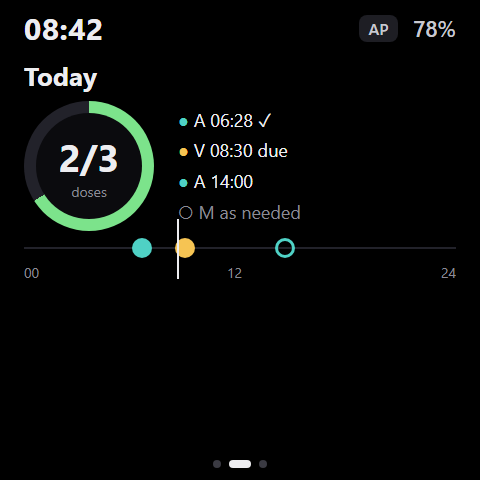
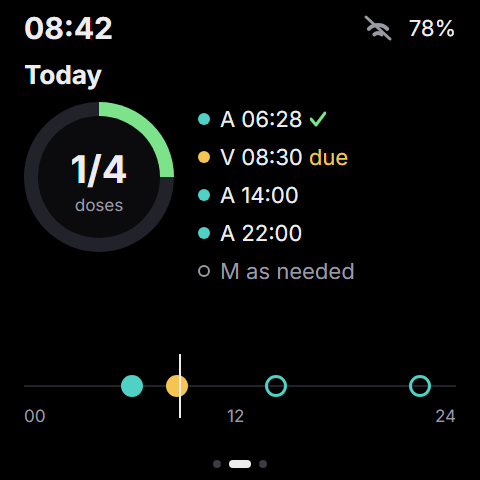
Redraw the device mockups from the current firmware layout
Sizes, positions, wording and colours follow components/hy_ui. The top bar shows the crossed Wi-Fi mark the firmware draws, aligned with the time and the percent, plus the charging bolt. split_screens.py takes an optional Inter font folder.

giovi321

diff --git a/design/mockups/screens.html b/design/mockups/screens.html
@@ -1,47 +1,56 @@
 <style>
+  /* Device UI mockups. Sizes and positions follow the firmware (components/hy_ui/src): absolute boxes use the screen
+     pixel of the 480 x 480 panel, and page content sits 56 px down, below the top bar. Text is Inter at the
+     firmware's type scale and line heights. */
   .wrap { display:flex; flex-wrap:wrap; gap:22px; }
   .item { width:310px; }
   .item h3 { margin:10px 0 4px; font-size:15px; }
   .item p { margin:0; font-size:13px; line-height:1.4; color:#888; }
-  .dev { width:480px; height:480px; background:#000; border-radius:28px; position:relative; overflow:hidden;
-         font-family:-apple-system,"Segoe UI",Roboto,sans-serif; color:#EDEDF0; transform:scale(.645); transform-origin:top left;
+  .dev { width:480px; height:480px; background:#000; position:relative; overflow:hidden;
+         font-family:Inter,-apple-system,"Segoe UI",Roboto,sans-serif; color:#EDEDF0; transform:scale(.645); transform-origin:top left;
          margin-bottom:-170px; margin-right:-170px; outline:5px solid #26262C; }
-  /* larger top bar */
-  .sb { height:56px; display:flex; align-items:center; justify-content:space-between; padding:0 24px; }
-  .sb .t { font-size:30px; font-weight:700; letter-spacing:.5px; }
-  .sb .r { display:flex; gap:16px; align-items:center; font-size:22px; font-weight:600; color:#C8C8D0; }
-  .wifi { width:30px; height:22px; position:relative; }
-  .wifi i { position:absolute; left:50%; bottom:0; border:4px solid #C8C8D0; border-color:#C8C8D0 transparent transparent transparent; border-radius:50%; transform:translateX(-50%); }
-  .bat { width:42px; height:22px; border:3px solid #C8C8D0; border-radius:6px; position:relative; }
-  .bat:after { content:""; position:absolute; right:-8px; top:5px; width:4px; height:7px; background:#C8C8D0; border-radius:2px; }
-  .bat i { position:absolute; left:3px; top:3px; bottom:3px; width:62%; background:#7CE38B; border-radius:2px; }
-  .badge { font-size:16px; padding:3px 9px; border-radius:8px; background:#1E1E24; color:#C8C8D0; }
-  .ring { border-radius:50%; display:flex; align-items:center; justify-content:center; }
-  .ring .in { border-radius:50%; background:#0B0B0E; display:flex; align-items:center; justify-content:center; font-weight:700; }
-  .grid { display:grid; grid-template-columns:1fr 1fr; gap:16px; padding:8px 22px; }
-  .tile { background:#121216; border-radius:26px; height:180px; display:flex; flex-direction:column; align-items:center; justify-content:center; gap:10px; }
-  .due { outline:3px solid #F6C453; outline-offset:-3px; }
-  .sub { color:#8A8A94; font-size:17px; }
-  .dots { position:absolute; bottom:12px; left:0; right:0; display:flex; justify-content:center; gap:8px; }
-  .dots i { width:8px; height:8px; border-radius:50%; background:#3A3A42; } .dots i.on { background:#EDEDF0; width:22px; border-radius:4px; }
-  .grab { position:absolute; top:6px; left:50%; width:44px; height:5px; margin-left:-22px; border-radius:3px; background:#2E2E36; }
-  .hdr { font-size:26px; font-weight:700; padding:2px 24px 8px; }
-  .card { background:#121216; border-radius:22px; padding:16px 18px; margin:0 18px 12px; }
-  .qs { display:grid; grid-template-columns:1fr 1fr; gap:12px; padding:0 18px; }
-  .q { background:#1A1A20; border-radius:22px; height:96px; padding:16px; box-sizing:border-box; display:flex; flex-direction:column; justify-content:space-between; }
-  .q.on { background:#24323A; } .q b { font-size:21px; } .q span { font-size:16px; color:#9A9AA4; }
-  .slider { height:30px; background:#1A1A20; border-radius:15px; margin:14px 18px; position:relative; }
-  .slider i { position:absolute; left:0; top:0; bottom:0; width:70%; background:#3A3A44; border-radius:15px; }
-  .cell { width:34px; height:34px; border-radius:9px; }
-  .ok { background:#4FD1C5; } .late { background:#2F7F78; } .miss { background:transparent; outline:2px solid #E5484D; outline-offset:-2px; } .na { background:#1C1C22; }
-  .slide { height:88px; border-radius:44px; background:#1A1A20; margin:0 26px; position:relative; display:flex; align-items:center; justify-content:center; font-size:21px; color:#9A9AA4; }
-  .knob { position:absolute; left:8px; top:8px; width:72px; height:72px; border-radius:50%; background:#F6C453; color:#000; display:flex; align-items:center; justify-content:center; font-size:30px; font-weight:800; }
-  .legend { font-size:13px; color:#888; }
+  .dev * { box-sizing:border-box; }
+  .a { position:absolute; white-space:nowrap; }
+  .c { text-align:center; }
+  .f17 { font-size:17px; line-height:22px; font-weight:400; }
+  .f17b { font-size:17px; line-height:23px; font-weight:700; }
+  .f22 { font-size:22px; line-height:28px; font-weight:400; }
+  .f22b { font-size:22px; line-height:27px; font-weight:700; }
+  .f26 { font-size:26px; line-height:33px; font-weight:700; }
+  .f30 { font-size:30px; line-height:38px; font-weight:700; }
+  .f38 { font-size:38px; line-height:33px; font-weight:700; }
+  .f44 { font-size:44px; line-height:53px; font-weight:700; }
+  .f52 { font-size:52px; line-height:64px; font-weight:700; }
+  .f96 { font-size:96px; line-height:77px; font-weight:700; }
+  .f120 { font-size:120px; line-height:92px; font-weight:200; }
+  .t2 { color:#9A9AA4; }
+  /* top bar: 56 px, time left, crossed Wi-Fi, optional bolt and battery percent right */
+  .bar { position:absolute; left:0; top:0; width:480px; height:56px; }
+  .bar .tm { left:24px; top:9px; }
+  .bar .rt { position:absolute; right:24px; top:0; height:56px; display:flex; align-items:center; }
+  .bar .rt svg { display:block; overflow:visible; }
+  .bar .pct { line-height:28px; }
+  .grab { position:absolute; top:6px; left:218px; width:44px; height:5px; border-radius:3px; background:#2E2E36; }
+  .ring { position:absolute; border-radius:50%; }
+  .disc { position:absolute; border-radius:50%; background:#0B0B0E; }
+  .tile { position:absolute; width:210px; height:180px; border-radius:24px; background:#121216; }
+  .tile .bd { position:absolute; inset:0; border-radius:24px; border:3px solid; }
+  .dots { position:absolute; top:460px; left:213px; height:8px; display:flex; gap:8px; }
+  .dots i { width:8px; height:8px; border-radius:4px; background:#3A3A42; }
+  .dots i.on { width:22px; background:#EDEDF0; }
+  .q { position:absolute; width:216px; height:96px; border-radius:22px; background:#1A1A20; }
+  .q.on { background:#24323A; }
+  .btn { position:absolute; border-radius:22px; background:#1A1A20; display:flex; align-items:center; }
+  .cell { position:absolute; border-radius:10px; }
+  .late:after { content:""; position:absolute; left:16px; top:15px; width:8px; height:8px; border-radius:50%; background:#F6C453; }
+  .miss { border:2px solid #E5484D; }
+  .na { background:#1C1C22; }
   .arrow { position:absolute; font-size:15px; color:#9A9AA4; background:#000c; padding:2px 8px; border-radius:8px; border:1px dashed #555; }
+  .legend { font-size:13px; color:#888; }
 </style>
 
-<h2>Screens v4: icon-only status (Wi-Fi arcs = client, AP badge = own network)</h2>
-<p class="subtitle">480×480 shown at 64%. Top bar enlarged (time, Wi-Fi mode, battery %). Dashed labels show the gestures and are not drawn on the device.</p>
+<h2>Device screens as built (480×480)</h2>
+<p class="subtitle">Shown at 64%. Layout, sizes and wording follow the firmware. Dashed labels show the gestures and are not drawn on the device.</p>
 
 <div class="section">
   <h3>Gesture map</h3>
@@ -52,138 +61,72 @@
 
   <div class="item">
     <div class="dev">
-      <div class="grab"></div>
-      <div class="sb"><span class="t">08:42</span><span class="r"><span class="wifi"><i style="width:30px;height:30px"></i><i style="width:16px;height:16px;bottom:-1px"></i></span><span>78%</span></span></div>
-      <div class="grid">
-        <div class="tile"><div class="ring" style="width:116px;height:116px;background:conic-gradient(#4FD1C5 0 62%,#22222A 0)"><div class="in" style="width:96px;height:96px;font-size:52px;color:#4FD1C5">A</div></div><div class="sub">2 h 14 m ago</div></div>
-        <div class="tile due"><div class="ring" style="width:116px;height:116px;background:conic-gradient(#F6C453 0 100%,#22222A 0)"><div class="in" style="width:96px;height:96px;font-size:52px;color:#F6C453">V</div></div><div class="sub" style="color:#F6C453;font-weight:600">Due now</div></div>
-        <div class="tile"><div class="ring" style="width:116px;height:116px;background:conic-gradient(#A78BFA 0 25%,#22222A 0)"><div class="in" style="width:96px;height:96px;font-size:52px;color:#A78BFA">M</div></div><div class="sub">as needed</div></div>
-        <div class="tile" style="background:#0B0B0E"><div style="font-size:44px;color:#8A8A94">+</div></div>
-      </div>
+      <div class="bar"><div class="grab"></div><span class="a tm f30">08:42</span><div class="rt"><svg width="30" height="24" viewBox="0 0 30 24" style="margin-right:16px" fill="none" stroke="#9A9AA4" stroke-linecap="round"><path d="M5.81 12.81 A13 13 0 0 1 24.19 12.81" stroke-width="4"/><path d="M11.46 18.46 A5 5 0 0 1 18.54 18.46" stroke-width="4"/><path d="M3 1 L27 23" stroke-width="3"/></svg><svg width="12" height="18" viewBox="0 0 12 18" style="margin-right:6px"><polygon points="8,0 1,10 7,10" fill="#EDEDF0"/><polygon points="5,7 11,7 4,17" fill="#EDEDF0"/></svg><span class="pct f22">78%</span></div></div>
+      <div class="tile" style="left:22px;top:64px"><div class="ring" style="left:47px;top:16px;width:116px;height:116px;background:conic-gradient(#4FD1C5 0 62%, #1A1A20 0)"></div><div class="disc" style="left:58px;top:27px;width:94px;height:94px"></div><span class="a f52 c" style="left:0;width:210px;top:45px;color:#4FD1C5">A</span><span class="a c f17 t2" style="left:0;width:210px;top:142px;">2&nbsp;h 14&nbsp;m ago</span></div><div class="tile" style="left:248px;top:64px"><div class="ring" style="left:47px;top:16px;width:116px;height:116px;background:conic-gradient(#F6C453 0 100%, #1A1A20 0)"></div><div class="disc" style="left:58px;top:27px;width:94px;height:94px"></div><span class="a f52 c" style="left:0;width:210px;top:45px;color:#F6C453">V</span><span class="a c f17b" style="left:0;width:210px;top:141.5px;color:#F6C453">Due now</span><div class="bd" style="border-color:#F6C453"></div></div><div class="tile" style="left:22px;top:260px"><div class="ring" style="left:47px;top:16px;width:116px;height:116px;background:conic-gradient(#A78BFA 0 25%, #1A1A20 0)"></div><div class="disc" style="left:58px;top:27px;width:94px;height:94px"></div><span class="a f52 c" style="left:0;width:210px;top:45px;color:#A78BFA">M</span><span class="a c f17 t2" style="left:0;width:210px;top:142px;">as needed</span></div><div class="tile" style="left:248px;top:260px;background:#0B0B0E"><span class="a f44 c t2" style="left:0;width:210px;top:63px">+</span></div>
       <div class="dots"><i class="on"></i><i></i><i></i></div>
       <span class="arrow" style="right:6px;top:220px">← Overview</span>
       <span class="arrow" style="left:170px;top:62px">↓ Quick settings</span>
     </div>
-    <h3>1 · Home</h3><p>Larger top bar. No menu; page dots only. "+" tile shows how to add a medicine from the web UI (or opens a QR code to it).</p>
+    <h3>1 · Home</h3><p>Two tiles per row, scrolling vertically. The ring shows the time from the last dose towards the next; a due tile gets a full ring and a coloured outline. The "+" tile opens the form that adds a medicine. The Wi-Fi mark is crossed out because Wi-Fi is not built yet; the bolt shows USB power.</p>
   </div>
 
   <div class="item">
     <div class="dev">
-      <div class="sb"><span class="t">08:42</span><span class="r"><span class="wifi"><i style="width:30px;height:30px"></i><i style="width:16px;height:16px;bottom:-1px"></i></span><span>78%</span></span></div>
-      <div class="qs">
-        <div class="q on"><b>Wi-Fi</b><span>Client · HomeNet</span></div>
-        <div class="q"><b>Access point</b><span>Off · tap to start</span></div>
-        <div class="q on"><b>Sound</b><span>Chime on</span></div>
-        <div class="q"><b>Do not disturb</b><span>Off</span></div>
-      </div>
-      <div class="slider"><i></i></div>
-      <div style="display:flex;justify-content:space-between;padding:0 24px;font-size:17px;color:#9A9AA4"><span>Brightness</span><span>Battery 78% · ~2 d</span></div>
-      <div style="display:flex;gap:12px;padding:14px 18px 0">
-        <div class="q" style="flex:1;height:64px;justify-content:center"><b style="font-size:18px">Settings ›</b></div>
-        <div class="q" style="flex:1;height:64px;justify-content:center"><b style="font-size:18px">Web UI QR ›</b></div>
-      </div>
+      <div class="bar"><span class="a tm f30">08:42</span><div class="rt"><svg width="30" height="24" viewBox="0 0 30 24" style="margin-right:16px" fill="none" stroke="#9A9AA4" stroke-linecap="round"><path d="M5.81 12.81 A13 13 0 0 1 24.19 12.81" stroke-width="4"/><path d="M11.46 18.46 A5 5 0 0 1 18.54 18.46" stroke-width="4"/><path d="M3 1 L27 23" stroke-width="3"/></svg><span class="pct f22">78%</span></div></div>
+      <div class="q" style="left:18px;top:56px;opacity:.4"><span class="a f22b" style="left:16px;top:18px">Wi-Fi</span><span class="a f17 t2" style="left:16px;top:58px">Off</span></div><div class="q" style="left:246px;top:56px;opacity:.4"><span class="a f22b" style="left:16px;top:18px">Access point</span><span class="a f17 t2" style="left:16px;top:58px">Off</span></div><div class="q on" style="left:18px;top:164px;"><span class="a f22b" style="left:16px;top:18px">Sound</span><span class="a f17 t2" style="left:16px;top:58px">Chime on</span></div><div class="q" style="left:246px;top:164px;"><span class="a f22b" style="left:16px;top:18px">Do not disturb</span><span class="a f17 t2" style="left:16px;top:58px">Off</span></div><div class="a" style="left:18px;top:274px;width:444px;height:56px;border-radius:28px;background:#1A1A20"></div><div class="a" style="left:18px;top:274px;width:296px;height:56px;border-radius:28px;background:#3A3A44"></div><span class="a f17b" style="left:38px;top:290.5px">Brightness</span><span class="a f17 t2" style="left:24px;top:346px">~2&nbsp;d left</span><div class="btn" style="left:18px;top:380px;width:216px;height:64px"><span class="f17b" style="margin-left:16px">Settings ›</span></div><div class="btn" style="left:246px;top:380px;width:216px;height:64px;opacity:.4"><span class="f17b" style="margin-left:16px">Web UI QR ›</span></div>
       <span class="arrow" style="left:170px;bottom:10px">↑ close</span>
     </div>
-    <h3>2 · Quick settings (pull down)</h3><p>Wi-Fi client / AP toggles, sound, do-not-disturb, brightness, battery estimate. The QR code opens the web UI on a phone.</p>
+    <h3>2 · Quick settings (pull down)</h3><p>Sound and Do not disturb toggle. Wi-Fi, Access point and Web UI QR are dimmed placeholders until Wi-Fi is built. The brightness slider carries its name. The battery line shows only a discharge estimate and is hidden on USB power.</p>
   </div>
 
   <div class="item">
     <div class="dev">
-      <div class="sb"><span class="t">08:42</span><span class="r"><span class="badge">AP</span><span>78%</span></span></div>
-      <div class="hdr">Today</div>
-      <div style="display:flex;align-items:center;gap:24px;padding:0 24px 10px">
-        <div class="ring" style="width:130px;height:130px;background:conic-gradient(#7CE38B 0 66%,#22222A 0)"><div class="in" style="width:106px;height:106px;flex-direction:column"><span style="font-size:38px">2/3</span><span class="sub" style="font-size:14px;font-weight:400">doses</span></div></div>
-        <div style="font-size:18px;line-height:1.7"><div><span style="color:#4FD1C5">●</span> A 06:28 ✓</div><div><span style="color:#F6C453">●</span> V 08:30 due</div><div><span style="color:#4FD1C5">●</span> A 14:00</div><div style="color:#8A8A94">○ M as needed</div></div>
-      </div>
-      <div style="position:relative;height:60px;margin:6px 24px;border-top:2px solid #22222A">
-        <span style="position:absolute;left:25%;top:-11px;width:20px;height:20px;border-radius:50%;background:#4FD1C5"></span>
-        <span style="position:absolute;left:35%;top:-11px;width:20px;height:20px;border-radius:50%;background:#F6C453"></span>
-        <span style="position:absolute;left:58%;top:-11px;width:20px;height:20px;border-radius:50%;border:3px solid #4FD1C5;box-sizing:border-box"></span>
-        <span style="position:absolute;left:35.5%;top:-30px;width:2px;height:60px;background:#EDEDF0"></span>
-        <span class="sub" style="position:absolute;left:0;top:14px;font-size:14px">00</span><span class="sub" style="position:absolute;left:47%;top:14px;font-size:14px">12</span><span class="sub" style="position:absolute;right:0;top:14px;font-size:14px">24</span>
-      </div>
+      <div class="bar"><span class="a tm f30">08:42</span><div class="rt"><svg width="30" height="24" viewBox="0 0 30 24" style="margin-right:16px" fill="none" stroke="#9A9AA4" stroke-linecap="round"><path d="M5.81 12.81 A13 13 0 0 1 24.19 12.81" stroke-width="4"/><path d="M11.46 18.46 A5 5 0 0 1 18.54 18.46" stroke-width="4"/><path d="M3 1 L27 23" stroke-width="3"/></svg><span class="pct f22">78%</span></div></div>
+      <span class="a f26" style="left:24px;top:58px">Today</span><div class="ring" style="left:24px;top:102px;width:150px;height:150px;background:conic-gradient(#7CE38B 0 25%, #22222A 0)"></div><div class="disc" style="left:38px;top:116px;width:122px;height:122px"></div><span class="a f38 c" style="left:38px;width:122px;top:152.5px">1/4</span><span class="a f17 t2 c" style="left:38px;width:122px;top:194px">doses</span><div class="a" style="left:198px;top:100px;height:38px;display:flex;align-items:center"><i style="width:12px;height:12px;border-radius:50%;margin-right:10px;background:#4FD1C5"></i><span class="f22" style="">A 06:28</span><svg width="16" height="16" viewBox="0 0 16 16" style="margin-left:8px" fill="none" stroke="#7CE38B" stroke-width="3" stroke-linecap="round" stroke-linejoin="round"><polyline points="1,8 6,14 15,2"/></svg></div><div class="a" style="left:198px;top:138px;height:38px;display:flex;align-items:center"><i style="width:12px;height:12px;border-radius:50%;margin-right:10px;background:#F6C453"></i><span class="f22" style="">V 08:30</span><span class="f22" style="color:#F6C453">&nbsp;due</span></div><div class="a" style="left:198px;top:176px;height:38px;display:flex;align-items:center"><i style="width:12px;height:12px;border-radius:50%;margin-right:10px;background:#4FD1C5"></i><span class="f22" style="">A 14:00</span></div><div class="a" style="left:198px;top:214px;height:38px;display:flex;align-items:center"><i style="width:12px;height:12px;border-radius:50%;margin-right:10px;background:#4FD1C5"></i><span class="f22" style="">A 22:00</span></div><div class="a" style="left:198px;top:252px;height:38px;display:flex;align-items:center"><i style="width:12px;height:12px;border-radius:50%;margin-right:10px;border:2px solid #9A9AA4"></i><span class="f22" style="color:#9A9AA4">M as needed</span></div><div class="a" style="left:24px;top:385px;width:432px;height:2px;background:#22222A"></div><span class="a" style="left:121px;top:375px;width:22px;height:22px;border-radius:50%;background:#4FD1C5"></span><span class="a" style="left:166px;top:375px;width:22px;height:22px;border-radius:50%;background:#F6C453"></span><span class="a" style="left:265px;top:375px;width:22px;height:22px;border-radius:50%;border:3px solid #4FD1C5"></span><span class="a" style="left:409px;top:375px;width:22px;height:22px;border-radius:50%;border:3px solid #4FD1C5"></span><div class="a" style="left:179px;top:354px;width:2px;height:64px;background:#EDEDF0"></div><span class="a f17 t2" style="left:24px;top:405px">00</span><span class="a f17 t2" style="left:227px;top:405px">12</span><span class="a f17 t2" style="right:24px;top:405px">24</span>
       <div class="dots"><i></i><i class="on"></i><i></i></div>
     </div>
-    <h3>3 · Overview (swipe left)</h3><p>Quick view: today's doses (taken / due / upcoming / as-needed) and a 24 h timeline with a "now" line.</p>
+    <h3>3 · Overview (swipe left)</h3><p>Today's dose count in a ring, one row per dose with its state (a green tick for taken, the word due or late in the medicine colour, as-needed medicines last) and a 24 h timeline with a "now" line.</p>
   </div>
 
   <div class="item">
     <div class="dev">
-      <div class="sb"><span class="t">08:42</span><span class="r"><span>78%</span></span></div>
-      <div class="hdr">Last 7 days</div>
-      <div style="display:grid;grid-template-columns:40px repeat(7,34px);gap:10px 14px;padding:0 24px;align-items:center;font-size:20px">
-        <span></span><span class="sub">T</span><span class="sub">F</span><span class="sub">S</span><span class="sub">S</span><span class="sub">M</span><span class="sub">T</span><span class="sub">W</span>
-        <b style="color:#4FD1C5">A</b><i class="cell ok"></i><i class="cell ok"></i><i class="cell late"></i><i class="cell ok"></i><i class="cell ok"></i><i class="cell ok"></i><i class="cell ok" style="opacity:.5"></i>
-        <b style="color:#F6C453">V</b><i class="cell ok" style="background:#F6C453"></i><i class="cell miss"></i><i class="cell ok" style="background:#F6C453"></i><i class="cell ok" style="background:#F6C453"></i><i class="cell ok" style="background:#F6C453"></i><i class="cell ok" style="background:#F6C453"></i><i class="cell na"></i>
-        <b style="color:#A78BFA">M</b><i class="cell na"></i><i class="cell" style="background:#A78BFA"></i><i class="cell na"></i><i class="cell na"></i><i class="cell" style="background:#A78BFA"></i><i class="cell na"></i><i class="cell na"></i>
-      </div>
-      <div style="display:flex;justify-content:space-around;margin:26px 24px 0;font-size:16px;color:#9A9AA4"><span>■ on time</span><span>▪ late</span><span style="color:#E5484D">□ missed</span></div>
-      <div style="text-align:center;margin-top:16px;font-size:24px;font-weight:700">Adherence 95%</div>
+      <div class="bar"><span class="a tm f30">08:42</span><div class="rt"><svg width="30" height="24" viewBox="0 0 30 24" style="margin-right:16px" fill="none" stroke="#9A9AA4" stroke-linecap="round"><path d="M5.81 12.81 A13 13 0 0 1 24.19 12.81" stroke-width="4"/><path d="M11.46 18.46 A5 5 0 0 1 18.54 18.46" stroke-width="4"/><path d="M3 1 L27 23" stroke-width="3"/></svg><span class="pct f22">78%</span></div></div>
+      <span class="a f26" style="left:24px;top:58px">Last 7 days</span><span class="a f17 t2 c" style="left:78px;top:101px;width:40px">T</span><span class="a f17 t2 c" style="left:130px;top:101px;width:40px">F</span><span class="a f17 t2 c" style="left:182px;top:101px;width:40px">S</span><span class="a f17 t2 c" style="left:234px;top:101px;width:40px">S</span><span class="a f17 t2 c" style="left:286px;top:101px;width:40px">M</span><span class="a f17 t2 c" style="left:338px;top:101px;width:40px">T</span><span class="a f17 t2 c" style="left:390px;top:101px;width:40px">W</span><span class="a f22b" style="left:24px;top:137.5px;color:#4FD1C5">A</span><i class="cell" style="left:78px;top:132px;width:40px;height:38px;background:#4FD1C5"></i><i class="cell" style="left:130px;top:132px;width:40px;height:38px;background:#4FD1C5"></i><i class="cell late" style="left:182px;top:132px;width:40px;height:38px;background:#4FD1C5"></i><i class="cell" style="left:234px;top:132px;width:40px;height:38px;background:#4FD1C5"></i><i class="cell" style="left:286px;top:132px;width:40px;height:38px;background:#4FD1C5"></i><i class="cell" style="left:338px;top:132px;width:40px;height:38px;background:#4FD1C5"></i><i class="cell" style="left:390px;top:132px;width:40px;height:38px;opacity:.5;background:#4FD1C5"></i><span class="a f22b" style="left:24px;top:183.5px;color:#F6C453">V</span><i class="cell" style="left:78px;top:178px;width:40px;height:38px;background:#F6C453"></i><i class="cell miss" style="left:130px;top:178px;width:40px;height:38px;"></i><i class="cell" style="left:182px;top:178px;width:40px;height:38px;background:#F6C453"></i><i class="cell" style="left:234px;top:178px;width:40px;height:38px;background:#F6C453"></i><i class="cell" style="left:286px;top:178px;width:40px;height:38px;background:#F6C453"></i><i class="cell" style="left:338px;top:178px;width:40px;height:38px;background:#F6C453"></i><i class="cell na" style="left:390px;top:178px;width:40px;height:38px;"></i><span class="a f22b" style="left:24px;top:229.5px;color:#A78BFA">M</span><i class="cell na" style="left:78px;top:224px;width:40px;height:38px;"></i><i class="cell" style="left:130px;top:224px;width:40px;height:38px;background:#A78BFA"></i><i class="cell na" style="left:182px;top:224px;width:40px;height:38px;"></i><i class="cell na" style="left:234px;top:224px;width:40px;height:38px;"></i><i class="cell" style="left:286px;top:224px;width:40px;height:38px;background:#A78BFA"></i><i class="cell na" style="left:338px;top:224px;width:40px;height:38px;"></i><i class="cell na" style="left:390px;top:224px;width:40px;height:38px;"></i><div class="a f17" style="left:104px;top:377px;height:22px;transform:translateX(-50%);display:flex;align-items:center;color:#9A9AA4"><i style="width:10px;height:10px;border-radius:2px;background:#9A9AA4;margin-right:7px"></i>on&nbsp;time</div><div class="a f17" style="left:245px;top:377px;height:22px;transform:translateX(-50%);display:flex;align-items:center;color:#9A9AA4"><i style="width:10px;height:10px;border-radius:2px;background:#9A9AA4;margin-right:7px;position:relative"><b style="position:absolute;left:3px;top:3px;width:4px;height:4px;border-radius:50%;background:#F6C453"></b></i>late</div><div class="a f17" style="left:382px;top:377px;height:22px;transform:translateX(-50%);display:flex;align-items:center;color:#E5484D"><i style="width:10px;height:10px;border-radius:2px;border:2px solid #E5484D;margin-right:7px"></i>missed</div><span class="a f26 c" style="left:0;width:480px;top:413.5px">Adherence 95%</span>
       <div class="dots"><i></i><i></i><i class="on"></i></div>
     </div>
-    <h3>4 · History (swipe left again)</h3><p>7-day grid per medicine, one row each, scrolls when there are many. Pinch or double tap to switch to 30 days. Tap a row → medicine detail.</p>
+    <h3>4 · History (swipe left again)</h3><p>7-day grid, one row per medicine; the list scrolls when there are more than five. Double tap anywhere to switch to 30 days. Tap a row to open the medicine detail. Today's column is dimmed while doses are still open.</p>
   </div>
 
   <div class="item">
     <div class="dev">
-      <div class="sb"><span class="t">08:42</span><span class="r"><span>78%</span></span></div>
-      <div style="display:flex;align-items:center;gap:18px;padding:0 24px 14px">
-        <div class="ring" style="width:96px;height:96px;background:conic-gradient(#4FD1C5 0 62%,#22222A 0)"><div class="in" style="width:80px;height:80px;font-size:44px;color:#4FD1C5">A</div></div>
-        <div><div style="font-size:26px;font-weight:700">Antibiotic</div><div class="sub">1 tab · 06:00, 14:00, 22:00</div><div class="sub">12 tablets left</div></div>
-      </div>
-      <div class="card" style="font-size:19px;line-height:1.75">
-        <div style="display:flex;justify-content:space-between"><span>Today 06:28</span><span class="sub">+28 min</span></div>
-        <div style="display:flex;justify-content:space-between"><span>Yesterday 22:04</span><span class="sub">on time</span></div>
-        <div style="display:flex;justify-content:space-between"><span>Yesterday 14:41</span><span class="sub">+41 min</span></div>
-      </div>
-      <div style="display:flex;gap:12px;padding:0 18px">
-        <div class="q" style="flex:1;height:66px;justify-content:center;align-items:center"><b style="font-size:19px">Log with note</b></div>
-        <div class="q" style="flex:1;height:66px;justify-content:center;align-items:center"><b style="font-size:19px">Log earlier…</b></div>
-      </div>
+      <div class="bar"><span class="a tm f30">08:42</span><div class="rt"><svg width="30" height="24" viewBox="0 0 30 24" style="margin-right:16px" fill="none" stroke="#9A9AA4" stroke-linecap="round"><path d="M5.81 12.81 A13 13 0 0 1 24.19 12.81" stroke-width="4"/><path d="M11.46 18.46 A5 5 0 0 1 18.54 18.46" stroke-width="4"/><path d="M3 1 L27 23" stroke-width="3"/></svg><span class="pct f22">78%</span></div></div>
+      <div class="ring" style="left:24px;top:57px;width:96px;height:96px;background:conic-gradient(#4FD1C5 0 62%, #22222A 0)"></div><div class="disc" style="left:32px;top:65px;width:80px;height:80px"></div><span class="a f44 c" style="left:24px;width:96px;top:83.5px;color:#4FD1C5">A</span><span class="a f26" style="left:138px;top:65px">Antibiotic</span><span class="a f17 t2" style="left:138px;top:99px">1 tab · 06:00, 14:00, 22:00</span><span class="a f17 t2" style="left:138px;top:122px">12 tablets left</span><div class="a" style="left:18px;top:165px;width:444px;height:132px;border-radius:22px;background:#121216"></div><span class="a f22" style="left:36px;top:179px">Today 06:28</span><span class="a f17 t2" style="right:36px;top:182px">+28 min</span><span class="a f22" style="left:36px;top:217px">Yesterday 22:04</span><span class="a f17 t2" style="right:36px;top:220px">on time</span><span class="a f22" style="left:36px;top:255px">Yesterday 14:41</span><span class="a f17 t2" style="right:36px;top:258px">+41 min</span><div class="btn" style="left:18px;top:309px;width:216px;height:66px;justify-content:center"><span class="f22b">Log with note</span></div><div class="btn" style="left:246px;top:309px;width:216px;height:66px;justify-content:center"><span class="f22b">Log earlier…</span></div><span class="a f22b" style="left:24px;top:393px">Last 30 days</span><i class="a" style="left:24px;top:432px;width:22px;height:22px;border-radius:6px;background:#4FD1C5"></i><i class="a" style="left:52px;top:432px;width:22px;height:22px;border-radius:6px;background:#4FD1C5"></i><i class="a" style="left:80px;top:432px;width:22px;height:22px;border-radius:6px;background:#4FD1C5"></i><i class="a" style="left:108px;top:432px;width:22px;height:22px;border-radius:6px;background:#4FD1C5"><b style="position:absolute;left:9px;top:9px;width:4px;height:4px;border-radius:50%;background:#F6C453"></b></i><i class="a" style="left:136px;top:432px;width:22px;height:22px;border-radius:6px;background:#4FD1C5"></i><i class="a" style="left:164px;top:432px;width:22px;height:22px;border-radius:6px;background:#4FD1C5"></i><i class="a" style="left:192px;top:432px;width:22px;height:22px;border-radius:6px;background:#4FD1C5"></i><i class="a" style="left:220px;top:432px;width:22px;height:22px;border-radius:6px;background:#4FD1C5"></i><i class="a" style="left:248px;top:432px;width:22px;height:22px;border-radius:6px;background:#4FD1C5"></i><i class="a" style="left:276px;top:432px;width:22px;height:22px;border-radius:6px;border:2px solid #E5484D"></i><i class="a" style="left:304px;top:432px;width:22px;height:22px;border-radius:6px;background:#4FD1C5"></i><i class="a" style="left:332px;top:432px;width:22px;height:22px;border-radius:6px;background:#4FD1C5"></i><i class="a" style="left:360px;top:432px;width:22px;height:22px;border-radius:6px;background:#4FD1C5"></i><i class="a" style="left:388px;top:432px;width:22px;height:22px;border-radius:6px;background:#4FD1C5"></i><i class="a" style="left:416px;top:432px;width:22px;height:22px;border-radius:6px;background:#4FD1C5"></i><i class="a" style="left:24px;top:460px;width:22px;height:22px;border-radius:6px;background:#4FD1C5"></i><i class="a" style="left:52px;top:460px;width:22px;height:22px;border-radius:6px;background:#4FD1C5"><b style="position:absolute;left:9px;top:9px;width:4px;height:4px;border-radius:50%;background:#F6C453"></b></i><i class="a" style="left:80px;top:460px;width:22px;height:22px;border-radius:6px;background:#4FD1C5"></i><i class="a" style="left:108px;top:460px;width:22px;height:22px;border-radius:6px;background:#4FD1C5"></i><i class="a" style="left:136px;top:460px;width:22px;height:22px;border-radius:6px;background:#4FD1C5"></i><i class="a" style="left:164px;top:460px;width:22px;height:22px;border-radius:6px;background:#4FD1C5"></i><i class="a" style="left:192px;top:460px;width:22px;height:22px;border-radius:6px;background:#4FD1C5"></i><i class="a" style="left:220px;top:460px;width:22px;height:22px;border-radius:6px;background:#4FD1C5"></i><i class="a" style="left:248px;top:460px;width:22px;height:22px;border-radius:6px;background:#4FD1C5"></i><i class="a" style="left:276px;top:460px;width:22px;height:22px;border-radius:6px;background:#4FD1C5"></i><i class="a" style="left:304px;top:460px;width:22px;height:22px;border-radius:6px;background:#4FD1C5"></i><i class="a" style="left:332px;top:460px;width:22px;height:22px;border-radius:6px;background:#4FD1C5"></i><i class="a" style="left:360px;top:460px;width:22px;height:22px;border-radius:6px;background:#4FD1C5"></i><i class="a" style="left:388px;top:460px;width:22px;height:22px;border-radius:6px;background:#4FD1C5"></i><i class="a" style="left:416px;top:460px;width:22px;height:22px;border-radius:6px;opacity:.5;background:#4FD1C5"></i>
       <span class="arrow" style="left:4px;top:230px">→ back</span>
     </div>
-    <h3>5 · Medicine detail (long press)</h3><p>Name, dose, schedule, pill count, recent log with lateness. Scroll down for the 30-day chart and history edits.</p>
+    <h3>5 · Medicine detail (long press)</h3><p>Ring, name, dose and schedule, pills left, the three newest log entries with lateness, and the two log buttons. Scroll down for the 30-day grid, the adherence, and the Edit and Archive buttons.</p>
   </div>
 
   <div class="item">
     <div class="dev">
-      <div class="sb"><span class="t">08:30</span><span class="r"><span>78%</span></span></div>
-      <div style="display:flex;flex-direction:column;align-items:center;gap:6px;padding-top:6px">
-        <div class="ring" style="width:200px;height:200px;background:conic-gradient(#F6C453 0 100%,#22222A 0)"><div class="in" style="width:176px;height:176px;flex-direction:column"><span style="font-size:96px;color:#F6C453;line-height:1">V</span></div></div>
-        <div style="font-size:26px;font-weight:700">Vitamin D · 1 tab</div>
-        <div class="sub">Due 08:30</div>
-      </div>
-      <div class="slide" style="margin-top:16px"><div class="knob">✓</div>Slide to log as taken  ›</div>
-      <div style="display:flex;justify-content:space-between;padding:12px 40px 0;font-size:18px;color:#9A9AA4"><span>‹ swipe left: snooze 15 min</span><span>Skip</span></div>
+      <div class="bar"><span class="a tm f30">08:30</span><div class="rt"><svg width="30" height="24" viewBox="0 0 30 24" style="margin-right:16px" fill="none" stroke="#9A9AA4" stroke-linecap="round"><path d="M5.81 12.81 A13 13 0 0 1 24.19 12.81" stroke-width="4"/><path d="M11.46 18.46 A5 5 0 0 1 18.54 18.46" stroke-width="4"/><path d="M3 1 L27 23" stroke-width="3"/></svg><svg width="12" height="18" viewBox="0 0 12 18" style="margin-right:6px"><polygon points="8,0 1,10 7,10" fill="#EDEDF0"/><polygon points="5,7 11,7 4,17" fill="#EDEDF0"/></svg><span class="pct f22">78%</span></div></div>
+      <div class="ring" style="left:140px;top:62px;width:200px;height:200px;background:conic-gradient(#F6C453 0 100%, #22222A 0)"></div><div class="disc" style="left:152px;top:74px;width:176px;height:176px"></div><span class="a f96 c" style="left:140px;width:200px;top:130px;color:#F6C453">V</span><span class="a f26 c" style="left:20px;width:440px;top:271px">Vitamin D · 1 tab</span><span class="a f17 t2 c" style="left:20px;width:440px;top:311px">Due 08:30</span><div class="a" style="left:26px;top:347px;width:428px;height:88px;border-radius:44px;background:#1A1A20"></div><span class="a f22 t2 c" style="left:26px;width:428px;top:377px">Slide to log as taken ›</span><div class="a" style="left:34px;top:355px;width:72px;height:72px;border-radius:50%;background:#F6C453"></div><svg class="a" style="left:34px;top:355px" width="72" height="72" viewBox="0 0 72 72" fill="none" stroke="#000" stroke-width="5" stroke-linecap="round" stroke-linejoin="round"><polyline points="21,38 30,47 50,26"/></svg><span class="a f17 t2" style="left:40px;top:449px">‹ swipe left: snooze 15 min</span><span class="a f17 t2" style="right:40px;top:449px">Skip</span>
     </div>
-    <h3>6 · Dose due (full screen)</h3><p>Chime plays. Slide right = taken (no accidental taps). Swipe left on the screen = snooze. Skip is a small text button. A "missed" event is sent if nothing happens within the set time.</p>
+    <h3>6 · Dose due (full screen)</h3><p>Chime plays. Slide right = taken (no accidental taps). Swipe left = snooze. Skip is a small text button. With several doses due, dots on the left edge show the position and "+N more" follows the due time. A "missed" event is written if nothing happens within the set time. On USB power the card keeps the screen on, shown here with the bolt.</p>
   </div>
 
   <div class="item">
     <div class="dev">
-      <div class="sb"><span class="t">08:43</span><span class="r"><span class="wifi"><i style="width:30px;height:30px"></i><i style="width:16px;height:16px;bottom:-1px"></i></span><span>78%</span></span></div>
-      <div class="grid" style="opacity:.35">
-        <div class="tile"><div class="ring" style="width:116px;height:116px;background:conic-gradient(#4FD1C5 0 62%,#22222A 0)"><div class="in" style="width:96px;height:96px;font-size:52px;color:#4FD1C5">A</div></div><div class="sub">2 h 15 m ago</div></div>
-        <div class="tile"><div class="ring" style="width:116px;height:116px;background:conic-gradient(#F6C453 0 2%,#22222A 0)"><div class="in" style="width:96px;height:96px;font-size:52px;color:#F6C453">V</div></div><div class="sub">just now</div></div>
-      </div>
-      <div style="position:absolute;left:24px;right:24px;bottom:34px;height:88px;background:#1E1E24;border-radius:24px;display:flex;align-items:center;padding:0 22px;gap:16px">
-        <span style="width:44px;height:44px;border-radius:50%;background:#7CE38B;color:#000;display:flex;align-items:center;justify-content:center;font-size:24px;font-weight:800">✓</span>
-        <span style="flex:1;font-size:21px">V logged 08:43</span>
-        <span style="font-size:21px;font-weight:700;color:#F6C453">Undo 5</span>
-      </div>
+      <div class="bar"><div class="grab"></div><span class="a tm f30">08:43</span><div class="rt"><svg width="30" height="24" viewBox="0 0 30 24" style="margin-right:16px" fill="none" stroke="#9A9AA4" stroke-linecap="round"><path d="M5.81 12.81 A13 13 0 0 1 24.19 12.81" stroke-width="4"/><path d="M11.46 18.46 A5 5 0 0 1 18.54 18.46" stroke-width="4"/><path d="M3 1 L27 23" stroke-width="3"/></svg><span class="pct f22">78%</span></div></div>
+      <div class="tile" style="left:22px;top:64px"><div class="ring" style="left:47px;top:16px;width:116px;height:116px;background:conic-gradient(#4FD1C5 0 62%, #1A1A20 0)"></div><div class="disc" style="left:58px;top:27px;width:94px;height:94px"></div><span class="a f52 c" style="left:0;width:210px;top:45px;color:#4FD1C5">A</span><span class="a c f17 t2" style="left:0;width:210px;top:142px;">2&nbsp;h 15&nbsp;m ago</span></div><div class="tile" style="left:248px;top:64px"><div class="ring" style="left:47px;top:16px;width:116px;height:116px;background:conic-gradient(#F6C453 0 2%, #1A1A20 0)"></div><div class="disc" style="left:58px;top:27px;width:94px;height:94px"></div><span class="a f52 c" style="left:0;width:210px;top:45px;color:#F6C453">V</span><span class="a c f17 t2" style="left:0;width:210px;top:142px;">just now</span></div><div class="tile" style="left:22px;top:260px"><div class="ring" style="left:47px;top:16px;width:116px;height:116px;background:conic-gradient(#A78BFA 0 25%, #1A1A20 0)"></div><div class="disc" style="left:58px;top:27px;width:94px;height:94px"></div><span class="a f52 c" style="left:0;width:210px;top:45px;color:#A78BFA">M</span><span class="a c f17 t2" style="left:0;width:210px;top:142px;">as needed</span></div><div class="tile" style="left:248px;top:260px;background:#0B0B0E"><span class="a f44 c t2" style="left:0;width:210px;top:63px">+</span></div><div class="dots"><i class="on"></i><i></i><i></i></div><div class="a" style="left:0;top:56px;width:480px;height:424px;background:rgba(0,0,0,.6)"></div><div class="a" style="left:24px;top:358px;width:432px;height:88px;border-radius:28px;background:#1A1A20"></div><div class="a" style="left:46px;top:380px;width:44px;height:44px;border-radius:50%;background:#7CE38B"></div><svg class="a" style="left:46px;top:380px" width="44" height="44" viewBox="0 0 44 44" fill="none" stroke="#000" stroke-width="4" stroke-linecap="round" stroke-linejoin="round"><polyline points="12,23 19,30 32,15"/></svg><span class="a f22" style="left:106px;top:388px">V logged 08:43</span><span class="a f22b" style="right:44px;top:388.5px;color:#F6C453">Undo 5</span>
     </div>
-    <h3>7 · Logged (single tap on a tile)</h3><p>Ring resets with an animation, a toast offers undo for 5 s with a countdown. Swipe the toast away to dismiss it.</p>
+    <h3>7 · Logged (single tap on a tile)</h3><p>The ring resets, the content dims under a scrim and a toast offers Undo for 5 s with a countdown. Shaking the device also undoes and shows "Undone by shake". The top bar stays bright.</p>
   </div>
 
   <div class="item">
     <div class="dev">
-      <div style="position:absolute;inset:0;display:flex;flex-direction:column;align-items:center;justify-content:center;gap:10px">
-        <div style="font-size:120px;font-weight:200;color:#9A9AA4;letter-spacing:-2px">08:44</div>
-        <div style="font-size:22px;color:#9A9AA4">Next: A at 14:00</div>
-        <div style="font-size:18px;color:#8A8A94;margin-top:8px">78% · Wi-Fi off</div>
-      </div>
+      <span class="a f120 t2 c" style="left:0;width:480px;top:161px">08:44</span><span class="a f22 t2 c" style="left:0;width:480px;top:291px">Next: A at 14:00</span><span class="a f17 t2 c" style="left:0;width:480px;top:339px">78% · Wi-Fi off</span>
     </div>
-    <h3>8 · Idle / dimmed</h3><p>After 30 s: dim grey clock and next dose, position drifts slowly against burn-in. Tap to wake. On battery the screen turns off after a further delay.</p>
+    <h3>8 · Idle / dimmed</h3><p>After 30 s: dim grey clock and next dose, with the battery percent and Wi-Fi state below. The group moves a few pixels each minute against burn-in. Tap to wake. On battery the screen turns off after a further delay.</p>
   </div>
 
 </div>

diff --git a/design/mockups/split_screens.py b/design/mockups/split_screens.py
@@ -1,5 +1,14 @@
 import re, sys, pathlib
+# usage: split_screens.py screens.html out_dir [font_dir]
+# font_dir holds inter-latin-200-normal.woff, inter-latin-400-normal.woff and inter-latin-700-normal.woff
+# (npm package @fontsource/inter, files/ folder); the screens fall back to a system font without it
 src, out = pathlib.Path(sys.argv[1]), pathlib.Path(sys.argv[2])
+fonts = ""
+if len(sys.argv) > 3:
+    fd = pathlib.Path(sys.argv[3]).resolve()
+    fonts = "<style>" + "".join(
+        "@font-face{font-family:Inter;font-weight:%d;src:url('%s')}" % (w, (fd / ("inter-latin-%d-normal.woff" % w)).as_uri())
+        for w in (200, 400, 700)) + "</style>"
 out.mkdir(parents=True, exist_ok=True)
 html = src.read_text(encoding="utf-8")
 style = re.search(r"<style>.*?</style>", html, re.S).group(0)
@@ -10,7 +19,7 @@ for it in items:
     title = re.sub(r"<.*?>", "", rest.split("</h3>")[0])
     slug = re.sub(r"[^a-z0-9]+", "-", title.split("·", 1)[1].split("(")[0].strip().lower()).strip("-")
     n = f"{len(names)+1:02d}-{slug}"
-    page = ("<!doctype html><html><head><meta charset='utf-8'>" + style +
+    page = ("<!doctype html><html><head><meta charset='utf-8'>" + fonts + style +
             "<style>html,body{margin:0;background:#000}.dev{transform:none;margin:0;outline:none;border-radius:0}.arrow{display:none}</style>"
             "</head><body>" + dev.rsplit("</div>", 0)[0] + "</body></html>")
     (out / f"{n}.html").write_text(page, encoding="utf-8")
